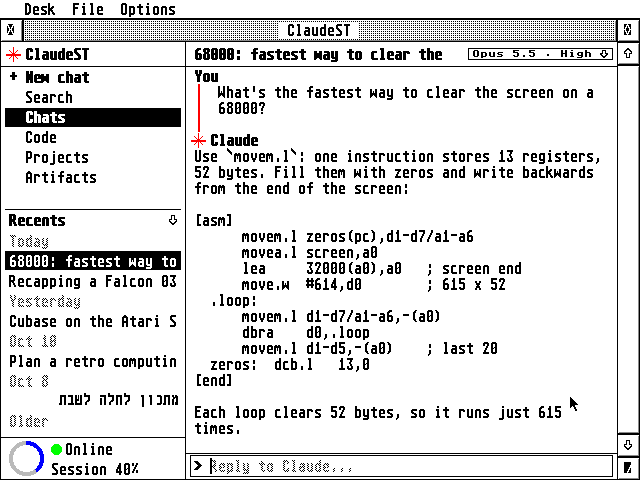
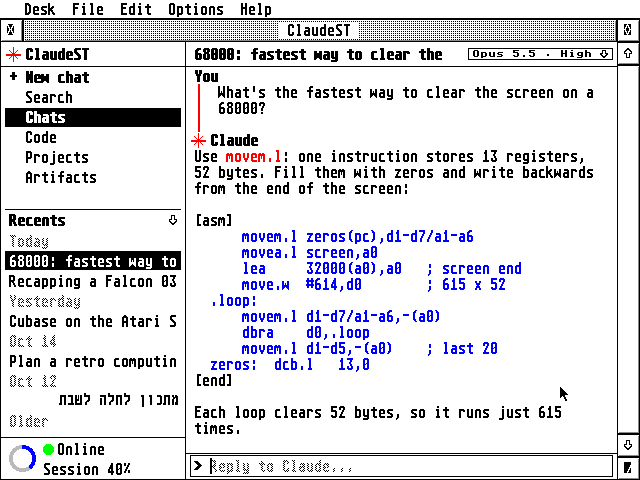
Help: the AERA front page, and the version from st/claudest.c
The help's first page is now the one every AERA program's help has
(guidelines 4.3): the banner, a welcome, the window at half size with
its numbered parts explained beside it, how ClaudeST reaches claude.ai,
and the contents in groups. help/Makefile makes it in a copy of
CLAUDEST.STG with common/tools/helpfront.py, from docs/front.json and
docs/help/WINDOW.IMG; the source keeps its own Main page for HCP alone.

The copy's @$VER takes VERSION from st/claudest.c, so the help no
longer says 1.23 at 1.43.

docs/falcon-colour.png is taken again with 1.43, the code in its
colours; the window picture is made from it.

Claude-Session: https://claude.ai/code/session_01XDMzbpSWQjz39M7P3K7C1y

diff --git a/README.md b/README.md
@@ -236,7 +236,8 @@ common/    the AERA programs' shared code, a git subtree of AERA-Atari: start-up
 tools/     hatari-test.sh, sync-common.sh, sync-gateway.sh, bump.py, check_version.sh,
            icon/ (the desktop icon), reel/ (the demo video)
 icons/     the desktop icon files (from tools/icon)
-docs/      the user guide (GUIDE.md), its screenshots and the demo recording
+docs/      the user guide (GUIDE.md), its screenshots, the demo recording and the help's front
+           page (front.json, help/WINDOW.IMG: help/Makefile adds it with common/tools/helpfront.py)
 ```
 
 The program is freestanding C with its own start-up code and AES, VDI and STinG bindings, so it needs
